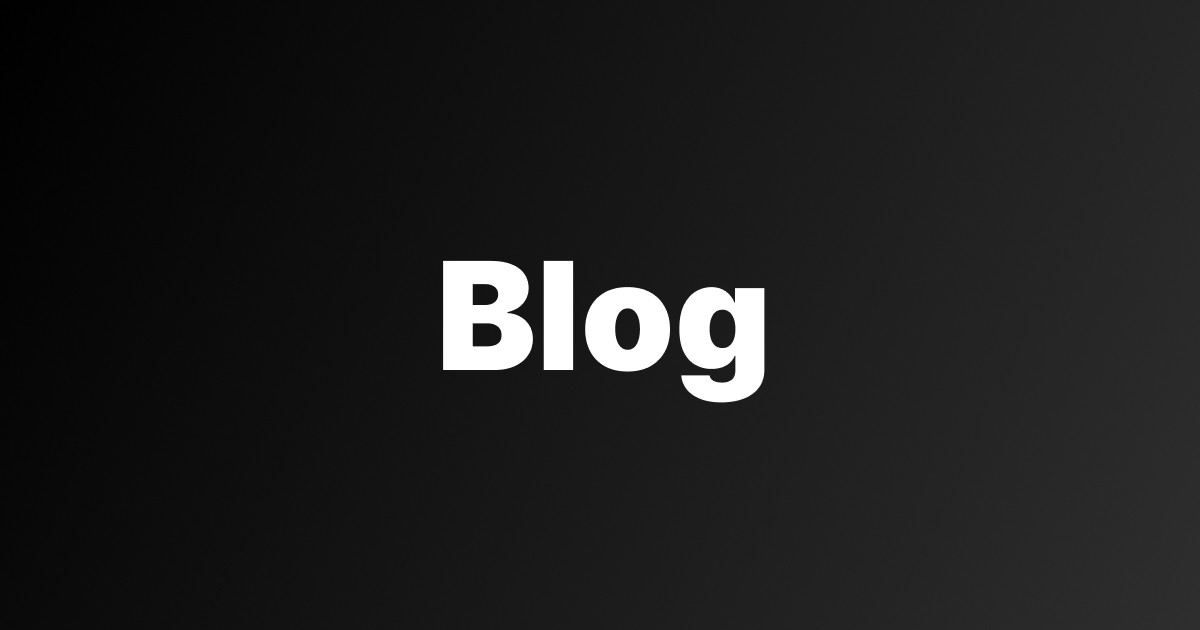
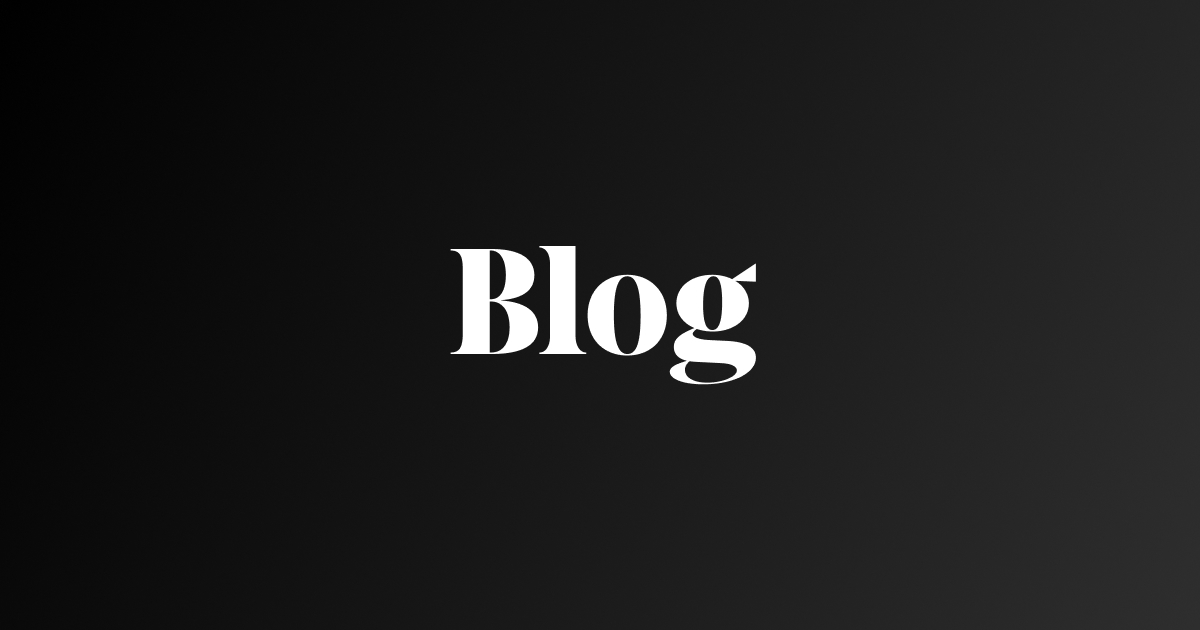
fix share images

Changed region(s): [[0.37, 0.3921, 0.6475, 0.6635]]

diff --git a/src/_includes/css/base.css b/src/_includes/css/base.css
@@ -7,6 +7,7 @@
 
   /* Typography */
   --font: "Inter", sans-serif;
+  --font-display: "Meshed Display", serif;
   --font-italic: "Georgia", serif;
   --font-code: "Consolas", 'Courier New', monospace;
   --fw-regular: 300;
@@ -34,7 +35,10 @@
 }
 
 @supports (font-variation-settings: normal) {
-  :root { --font: "Inter var", sans-serif; }
+  :root {
+    --font: "Inter var", sans-serif;
+    --font-display: "Meshed Display var", serif;
+  }
 }
 
 body {
@@ -73,6 +77,7 @@ h1, .h1, h2, .h2, h3, .h3, h4, .h4, h5, .h5, h6, .h6, .display  {
   margin: 0.25em 0;
 }
 .display {
+  font-family: var(--font-display);
   font-size: var(--ts-display);
   font-weight: var(--fw-bold);
 }
